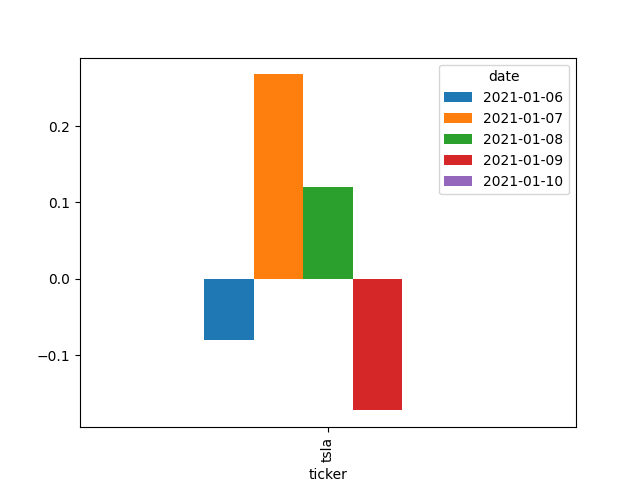
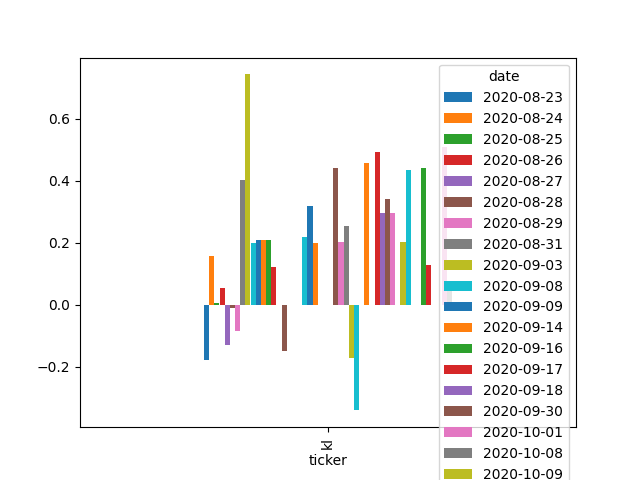
Sentiment to Django

diff --git a/project/app/views.py b/project/app/views.py
@@ -1,62 +1,70 @@
 from django.shortcuts import render
 from django.http import HttpResponse, HttpResponseRedirect
+from urllib.request import urlopen, Request
 from bs4 import BeautifulSoup
+from nltk.sentiment.vader import SentimentIntensityAnalyzer
+import pandas as pd
+import matplotlib.pyplot as plt
+
 import requests
 
-from csv import writer
-#
-
+fin_url = 'https://finviz.com/quote.ashx?t='
+parsed_data = []
 
 def basic(request):
     if request.method == 'POST':
         name = request.POST.get('name', '')
         
         if len(name) >= 1:
-            url = 'https://finviz.com/quote.ashx?t='
+            
+            tickers = [name]
 
-            res = requests.get(url + name, headers={'User-Agent': 'Mozilla/5.0'})
+            news_tables = {}
 
-            soup = BeautifulSoup(res.text, "html.parser")
+            for ticker in tickers:
+                url = fin_url + ticker
 
-            articles = soup.find_all("table", {"class": "fullview-news-outer"})
+                req = Request(url=url, headers={'user-agent': 'my-app'})
+                response = urlopen(req)
 
-            with open('articles.csv', 'w') as csv_file:
-                csv_writer = writer(csv_file)
-                headers = ["Headline: "]
-                csv_writer.writerow(headers)  
+                html = BeautifulSoup(response, features='html.parser')
+                news_table = html.find(id='news-table')
+                news_tables[ticker] = news_table
 
 
-                for newsElement in articles:
-                    rows = newsElement.find_all('tr')
-                    # print(rows)
-                    lst = []
+            for ticker, news_table in news_tables.items():
 
-                for row in rows:
+                for row in news_table.findAll('tr'):
 
-                    article_name = row.find("div", {"class": "news-link-left"}).get_text().strip()
+                    title = row.a.text
+                    date_data = row.td.text.split(' ')
+
+                    if len(date_data) == 1:
+                        time = date_data[0]
+                    else:
+                        date = date_data[0]
+                        time = date_data[1]
+
+                    parsed_data.append([ticker, date, time, title])
                     
 
-                    # content = article_name + " " 
+            df = pd.DataFrame(parsed_data, columns=['ticker', 'date', 'time', 'title'])
 
-                    csv_writer.writerow([article_name])
+            vader = SentimentIntensityAnalyzer()
 
+            f = lambda title: vader.polarity_scores(title)['compound']
+            df['compound'] = df['title'].apply(f)
+            df['date'] = pd.to_datetime(df.date).dt.date
 
-            for newsElement in articles:
-                rows = newsElement.find_all('tr')
-                # print(rows)
-                lst = []
+            plt.figure(figsize=(8,8))
+            mean_df = df.groupby(['ticker', 'date']).mean().unstack()
+            mean_df = mean_df.xs('compound', axis="columns")
+            mean_df.plot(kind='bar')
+            plt.savefig('graph.png')
+            #plt.show()
 
-                for row in rows:
-
-                    article_name = row.find("div", {"class": "news-link-left"}).get_text().strip()
-                    
-
-                    content = article_name + " " 
-
-                    lst.append('<br/>' + str(content) + '<br/>')
-                    
-
-                return HttpResponse('<img src="../graph.png" alt="">')
+            image_data = open("graph.png", "rb").read()
+            return HttpResponse(image_data, content_type="image/png")
          
         else:
             return HttpResponse("please enter valid symbol")

diff --git a/project/Sentiment_Analysis.py b/project/Sentiment_Analysis.py
@@ -49,5 +49,5 @@ plt.figure(figsize=(8,8))
 mean_df = df.groupby(['ticker', 'date']).mean().unstack()
 mean_df = mean_df.xs('compound', axis="columns")
 mean_df.plot(kind='bar')
-plt.savefig('graph.png')
-plt.show()
+plt.savefig('project/graph.png')
+#plt.show()
